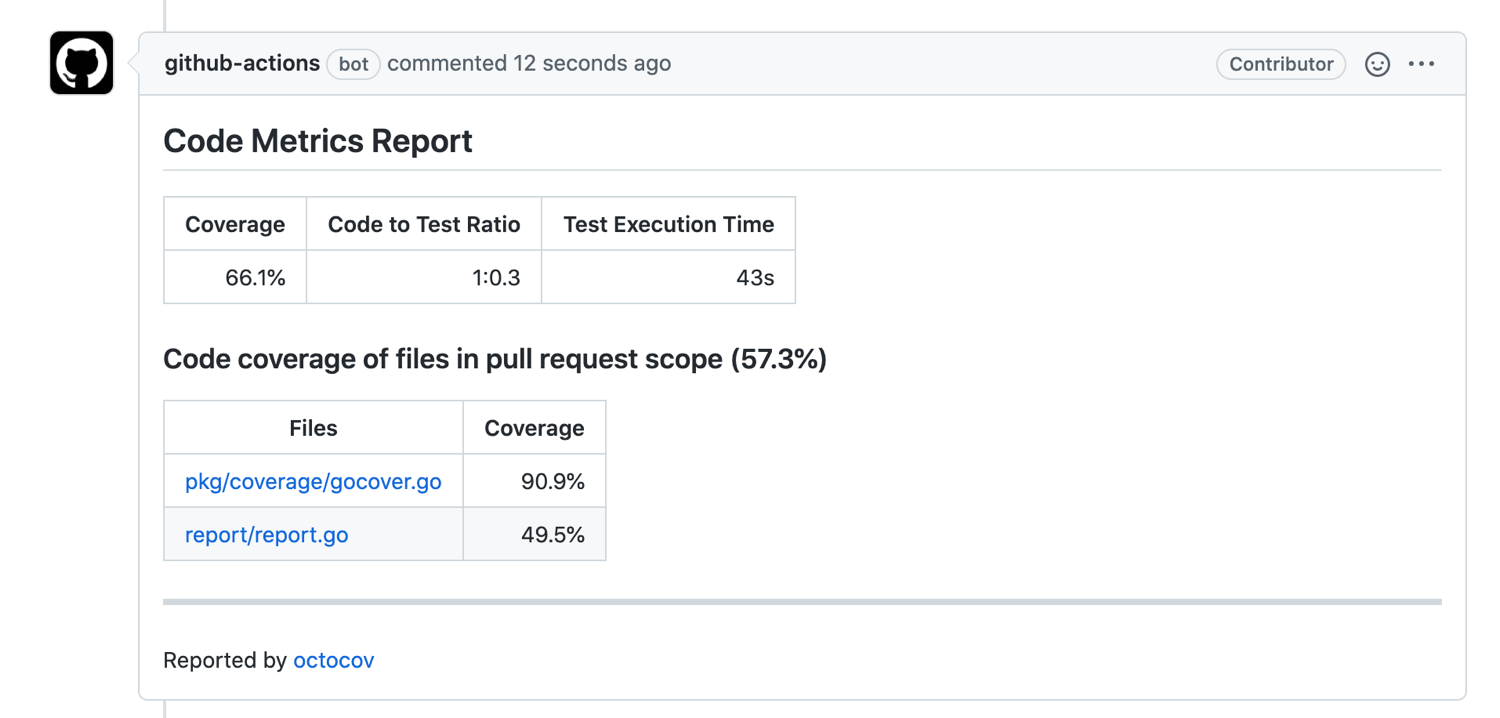
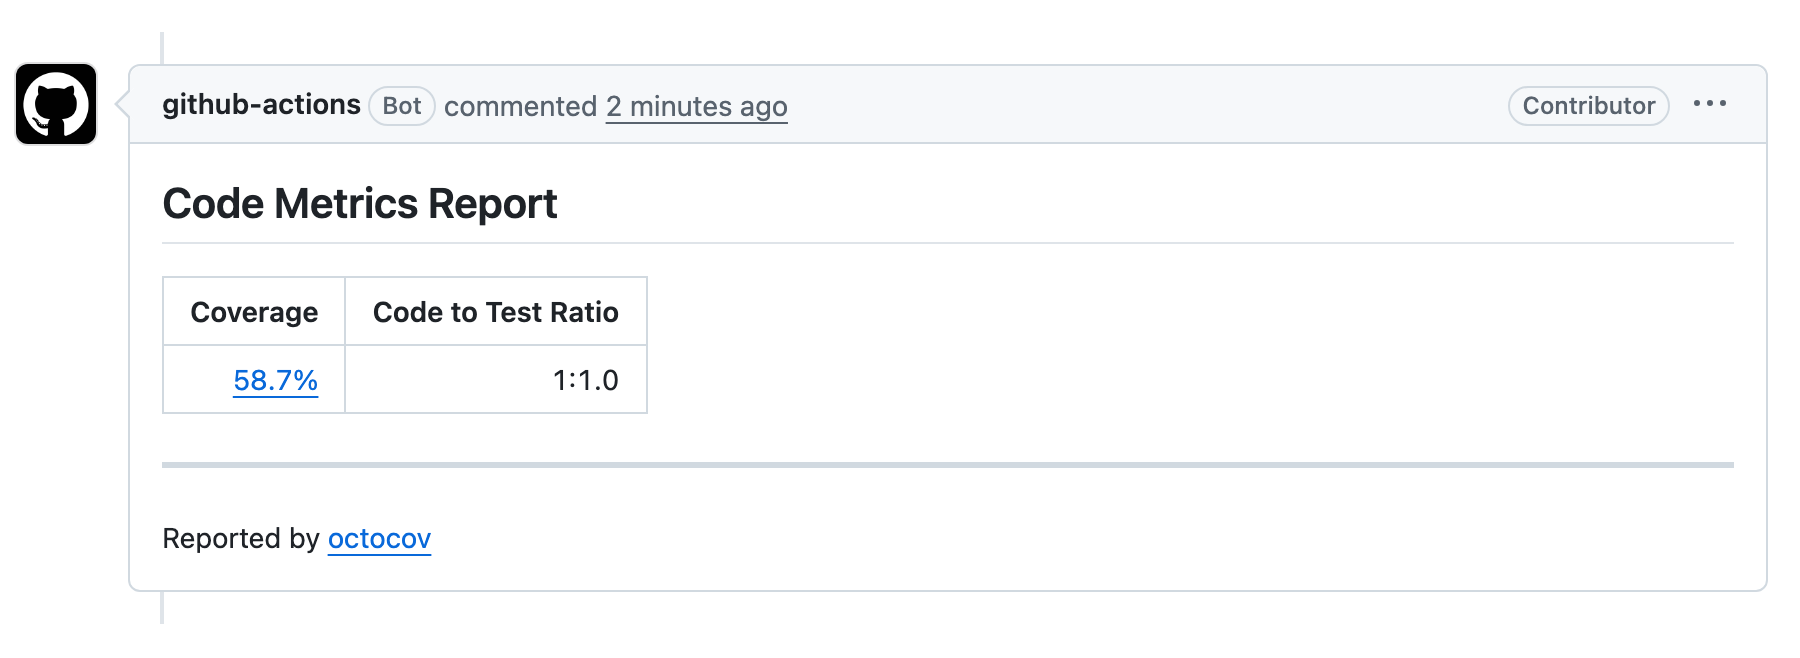
docs: refresh the README screenshots and workflow example
The screenshots predated patch coverage, so they no longer matched what
octocov reports today. Take the ones octocov itself retook, and bump the
actions in the workflow example to the major versions octocov's own CI uses.

diff --git a/README.md b/README.md
@@ -48,19 +48,19 @@ on:
 
 jobs:
   test:
-    runs-on: ubuntu-latest 
+    runs-on: ubuntu-latest
     permissions:
       # To comment on PRs
       pull-requests: write
       # To retrieve test step time in GitHub Action
       contents: read
-      # To retrieve previous report/To delete current report  for default branch, which is saved as GitHub Action Artifacts
+      # To retrieve previous report/To delete current report for default branch, which is saved as GitHub Action Artifacts
       actions: write
     steps:
       -
-        uses: actions/checkout@v4
+        uses: actions/checkout@v7
       -
-        uses: actions/setup-go@v4
+        uses: actions/setup-go@v7
         with:
           go-version-file: go.mod
       -
